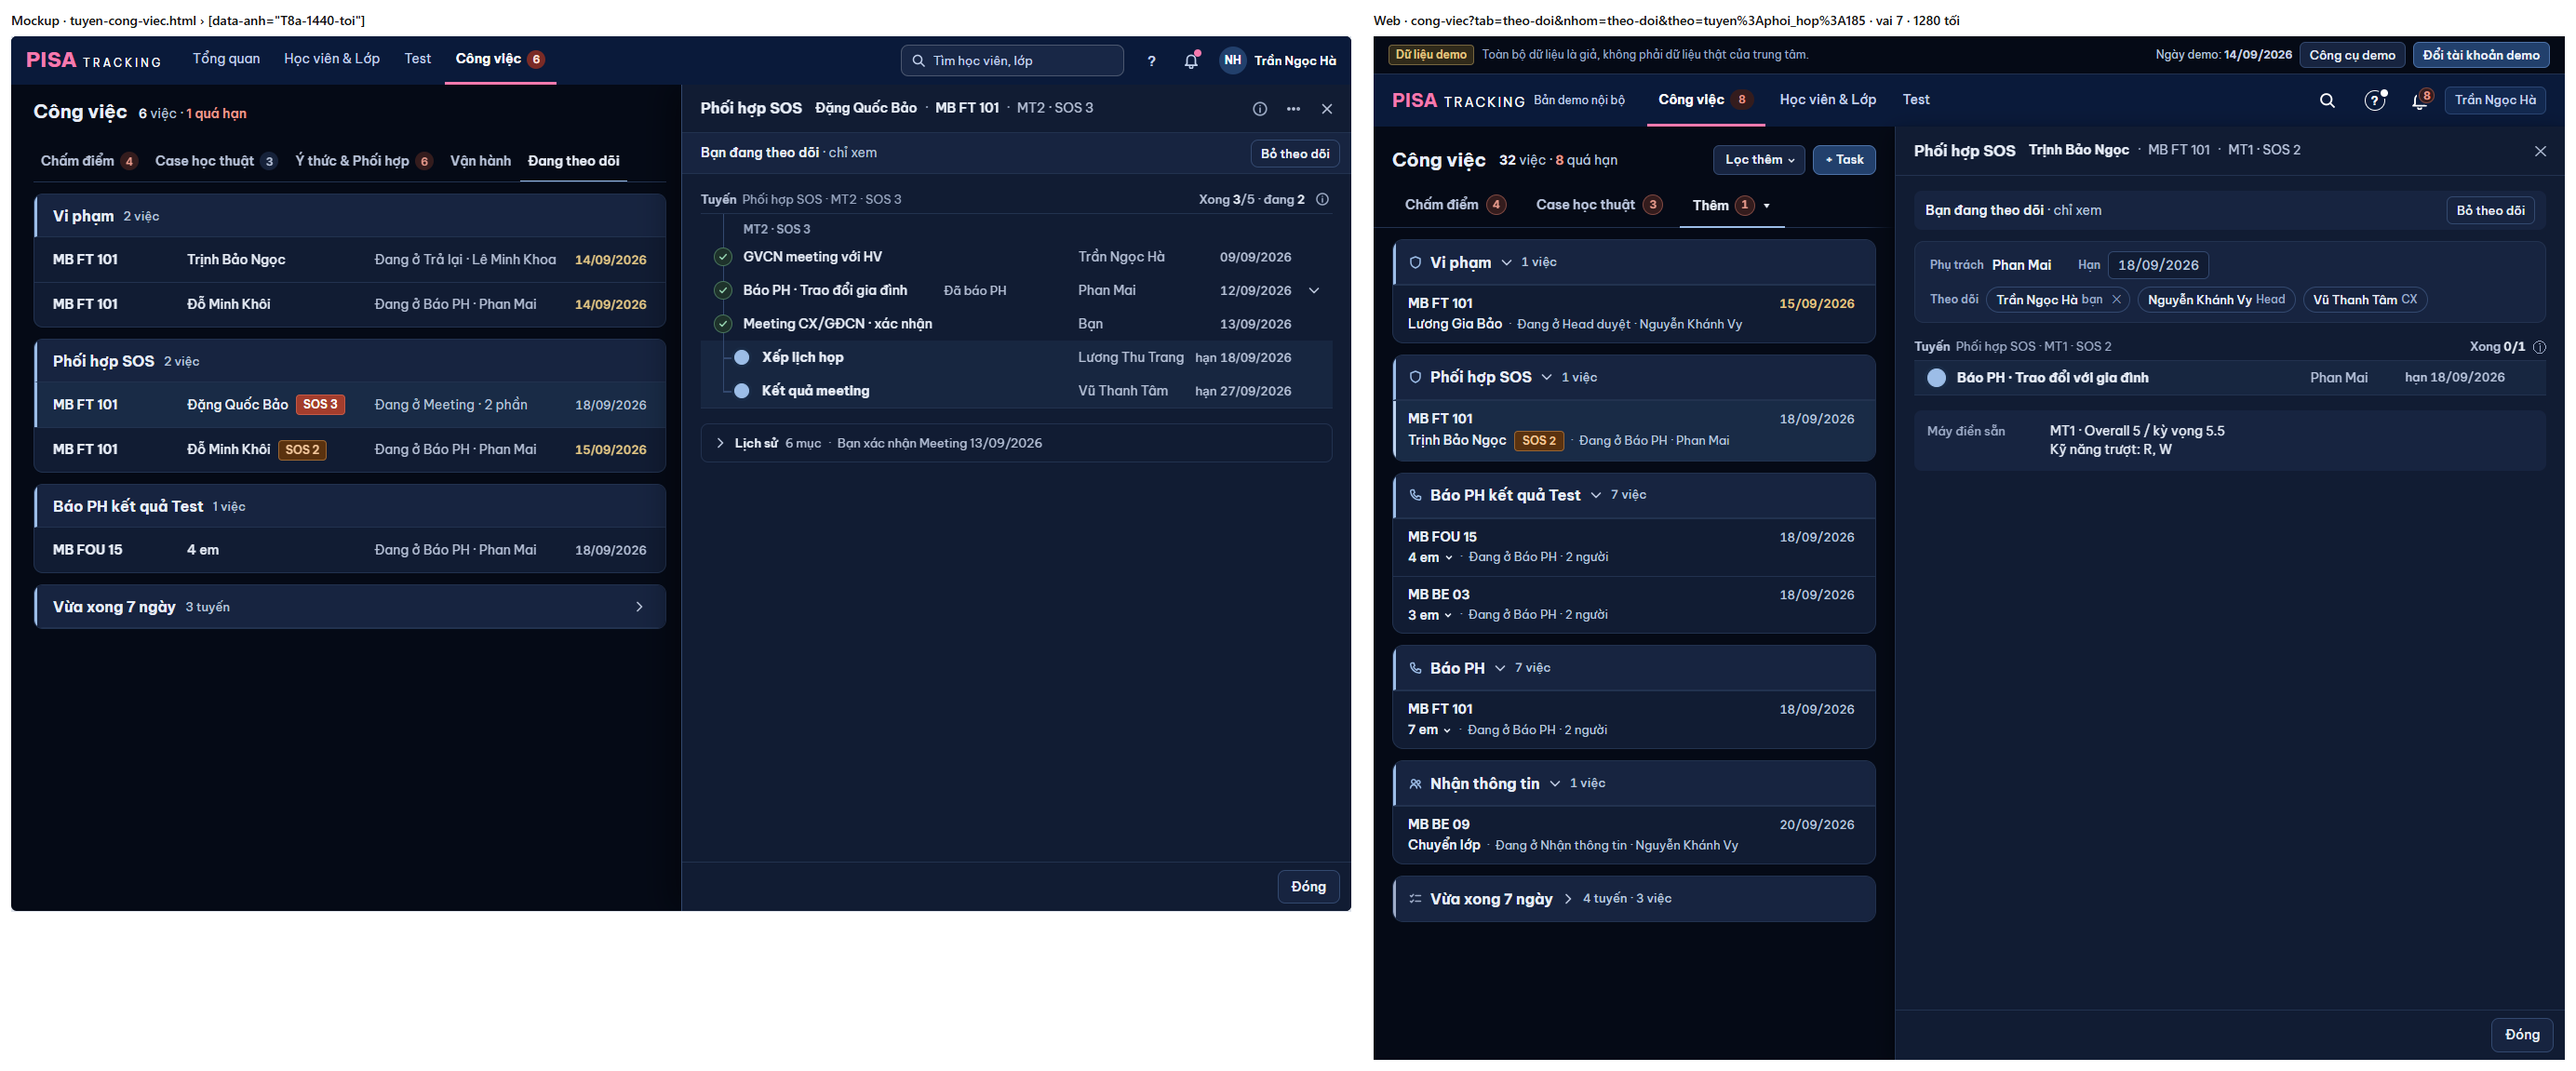
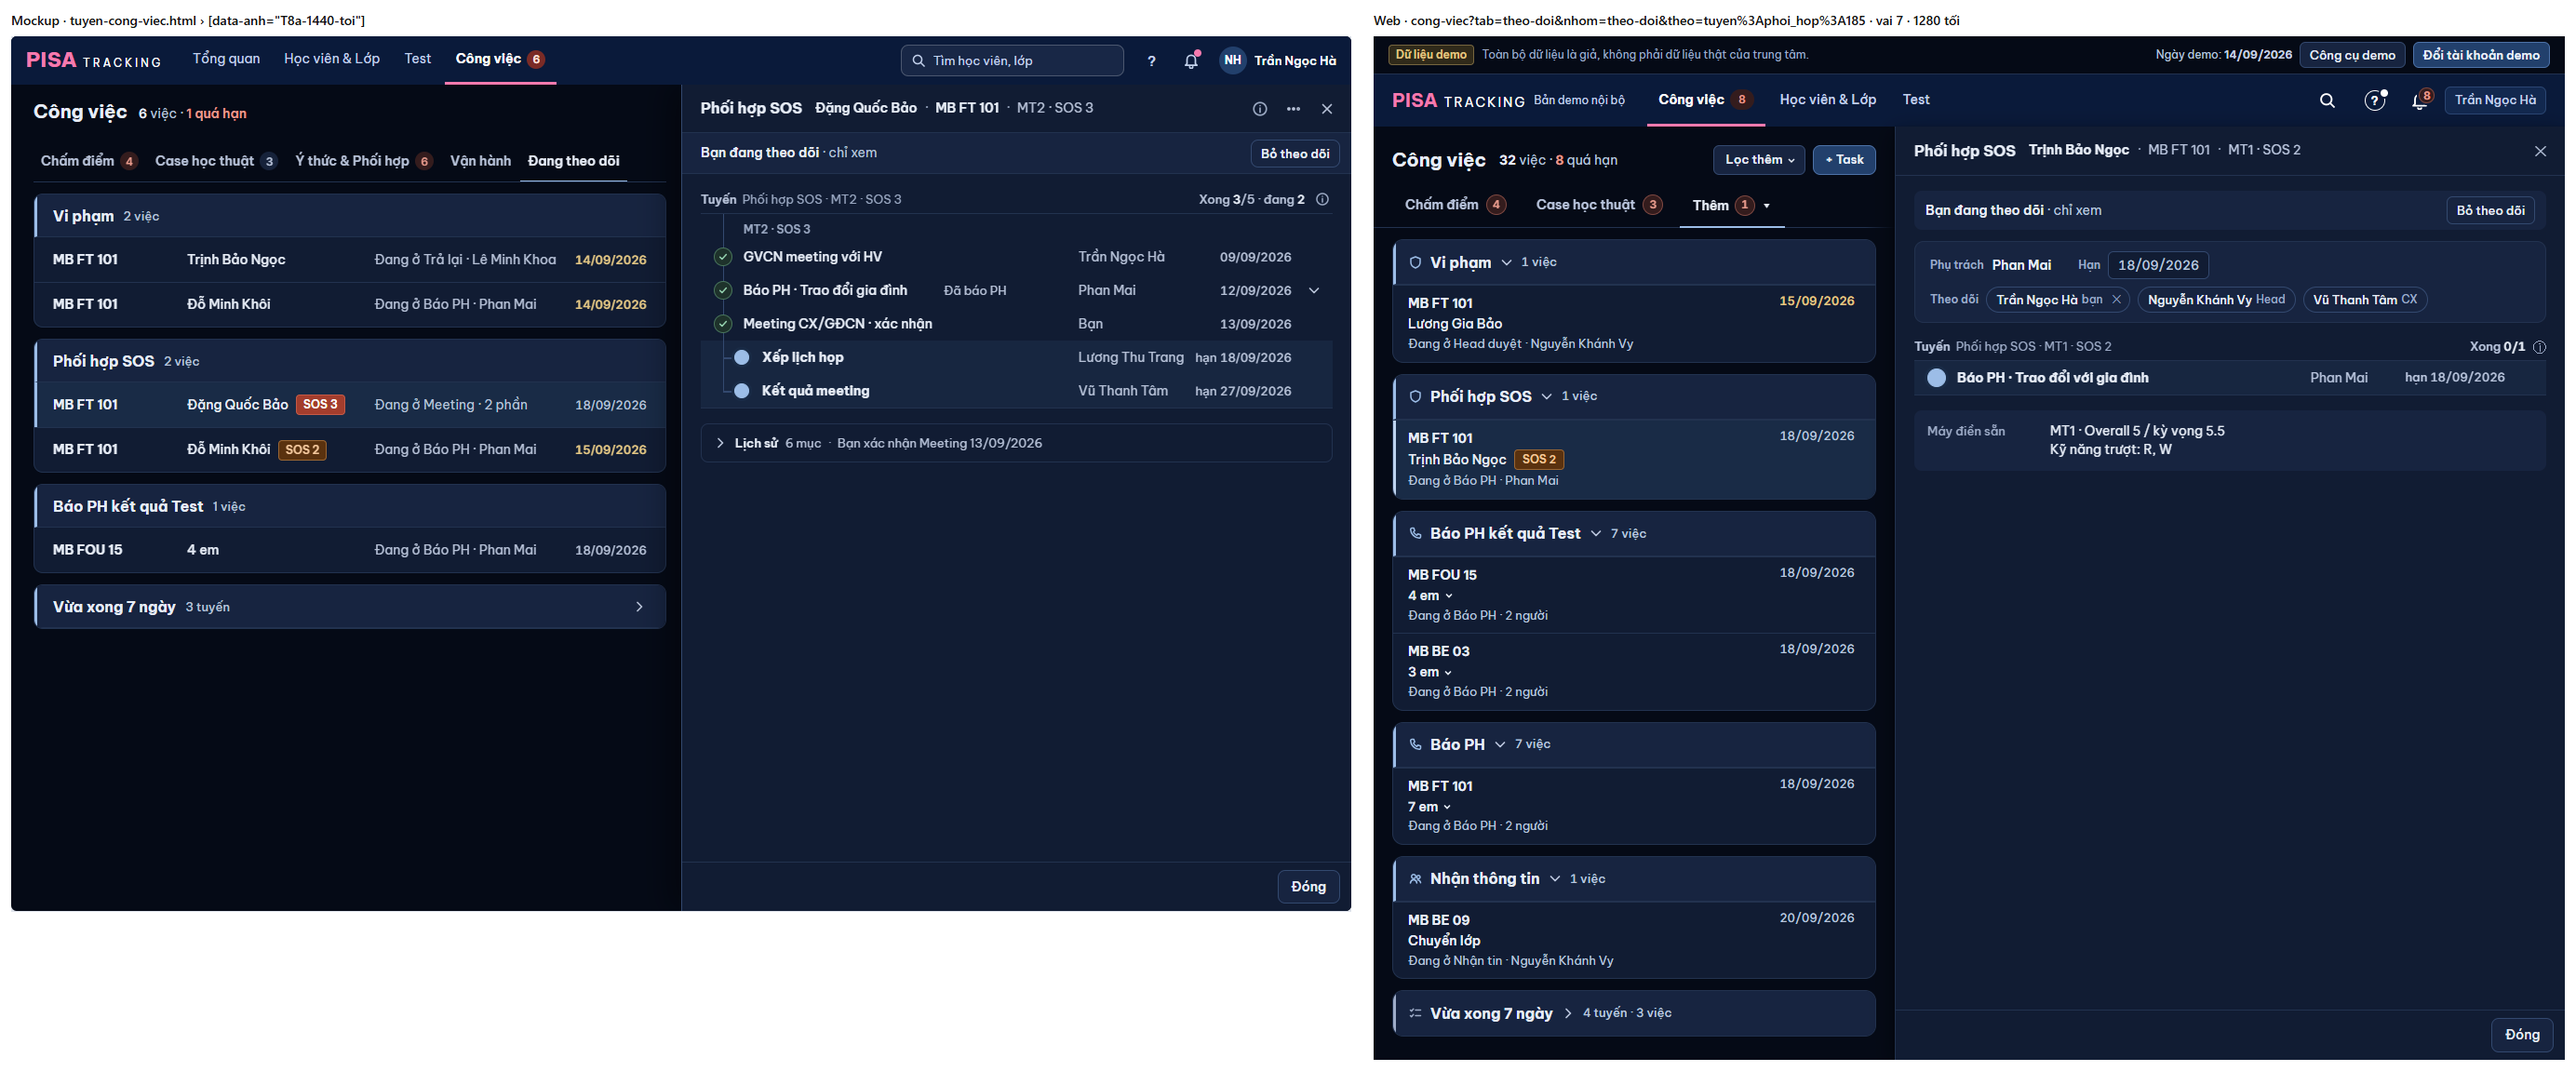
TUYEN-3 (rà PTA #2281 v2): Đang theo dõi chữ chi tiết 13 px + khe cột 14 px — mọi dòng một tầng ở 1440; 'Nhận thông tin' → 'Nhận tin'; chụp lại t8a 1440 / 1280

Changed region(s): [[0.5282, 0.2737, 0.7457, 0.9731]]

diff --git a/server/src/yThuc/tuyen.ts b/server/src/yThuc/tuyen.ts
@@ -865,7 +865,7 @@ export function theoDoiTuyen(p: Principal): { tuyen: DongTheoDoiTuyen[]; an: Set
     ra.push({ loai: t.loai, khoa: t.khoa, tieuDe: t.tieuDe, studentId: t.em?.id ?? null, studentName: t.em?.ten ?? null, classCode: t.em?.lop ?? t.lop?.code ?? null,
       nhan: x.ketThuc ? `Xong${x.ketThucLuc ? ` ${x.ketThucLuc.slice(8, 10)}/${x.ketThucLuc.slice(5, 7)}/${x.ketThucLuc.slice(0, 4)}` : ''}`
                 /* TUYEN-3 (rà PTA #2281, mockup v27 T8a): tên bước NGẮN ("Báo PH · Kết quả Progress" → "Báo PH" — nguồn đã ở tên mục) để dòng một tầng. */
-        : x.dangO ? `Đang ở ${x.dangO.ten.split(' · ')[0]}${x.dangO.nguoi ? ` · ${x.dangO.nguoi}` : ''}` : 'Đang ở —',
+        : x.dangO ? `Đang ở ${x.dangO.ten.split(' · ')[0].replace(/^Nhận thông tin$/, 'Nhận tin')}${x.dangO.nguoi ? ` · ${x.dangO.nguoi}` : ''}` : 'Đang ở —',
       han, quaHan: !!han && han < homNay, ketThuc: x.ketThuc, ketThucLuc: x.ketThucLuc, chuoi: x.buoc.map((b) => b.trangThai), viec: d.viec,
       ...(t.lo ? { lo: t.lo, chuaBaoPh: t.buoc.some((b) => b.khoa.startsWith('bao_ph:') && (b.trangThai === 'dang' || b.trangThai === 'tam_dung')) } : {}) });
   }

diff --git a/web/src/modules/congViec/TabTheoDoi.tsx b/web/src/modules/congViec/TabTheoDoi.tsx
@@ -124,7 +124,7 @@ const tenDong = (d: DongTd) => d.tieuDe.split(' · ').filter((x) => x !== d.clas
  * việc theo dõi tay (N58) còn mở: "Đang ở {tên việc ngắn} · {người phụ trách}" (nguồn đã ở tên mục); đã xong: trạng thái.
  */
 const chuDong = (d: DongTd) => (d.tuyen || d.trangThai !== 'mo' ? dich(d.nhanTrangThai)
-  : [`${t('Đang ở')} ${dich(tenDong(d).split(' · ')[0])}`, d.phuTrach ? dich(d.phuTrach) : null].filter(Boolean).join(' · '));
+  : [`${t('Đang ở')} ${dich(tenDong(d).split(' · ')[0].replace(/^Nhận thông tin$/, 'Nhận tin'))}`, d.phuTrach ? dich(d.phuTrach) : null].filter(Boolean).join(' · '));
 /** Khoá gộp lớp × nguồn (mục Báo PH): tuyến — tên tuyến; việc N58 — tên việc đầy đủ ("Báo PH · Trao đổi với gia đình"). */
 const khoaGop = (d: DongTd) => `${d.classCode ?? ''}|${d.tuyen ? tenTuyen(d.tuyen) : tenDong(d)}`;
 

diff --git a/web/src/index.css b/web/src/index.css
@@ -2135,6 +2135,8 @@ article.hang-nhom-lop { background: var(--hang-lon-bg); box-shadow: inset 3px 0 
   @container (min-width: 600px) {
     .cvA { grid-template-columns: max-content max-content minmax(0, 1fr) max-content; }
   }
+  /* TUYEN-3 (rà PTA #2281): Đang theo dõi — chữ chi tiết 13 px, khe cột 14 px: "Đang ở {bước} · {người}" một tầng ở cạnh panel (1440 → 656 px). */
+  @container (min-width: 600px) { .td-A .cvA { column-gap: 14px; } .td-A .cvA-v .cvA-ct { font-size: 13px; } }
   @container (min-width: 600px) and (max-width: 1099px) {
     .cvA-v .cvA-ct { white-space: normal; overflow: visible; text-overflow: clip; overflow-wrap: anywhere; line-height: 1.3; padding-block: 6px; }
   }
